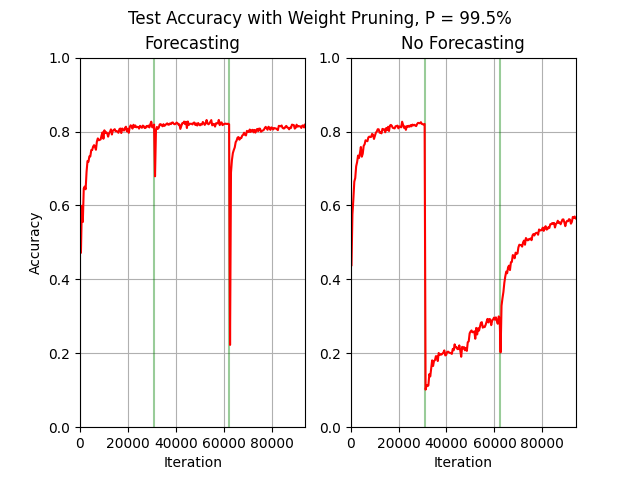
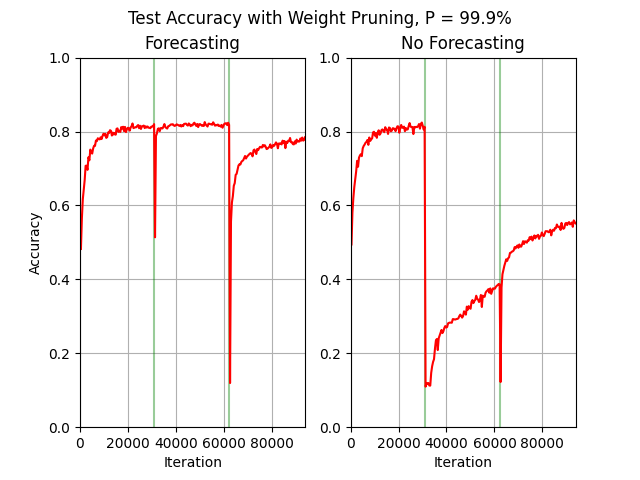
9775

diff --git a/Resnet18_F_Pruning.py b/Resnet18_F_Pruning.py
@@ -180,7 +180,7 @@ for i in range (3):
             print("Pruning...", k+1)
             acceleration = I_model(torch.transpose(weight_holder[4*k:4*k+4, :], 0, 1)*1000)/1000
             accelerate_dict = vec_to_dict(acceleration, mask)
-            (mask, num_zeroed) = prune(accelerate_dict, k+1, .95, num_zeroed, mask)
+            (mask, num_zeroed) = prune(accelerate_dict, k+1, .9775, num_zeroed, mask)
             temp_state_dict = simple_model.state_dict()
             mask_as_list = []
             for item in mask:

diff --git a/Resnet18_NF_Pruning.py b/Resnet18_NF_Pruning.py
@@ -163,7 +163,7 @@ for i in range (3):
             current_convs = {}
             for item in mask:
                 current_convs[item] = current[item]
-            (mask, num_zeroed) = prune(current_convs, k+1, .95, num_zeroed, mask)
+            (mask, num_zeroed) = prune(current_convs, k+1, .9775, num_zeroed, mask)
             temp_state_dict = simple_model.state_dict()
             mask_as_list = []
             for item in mask:

diff --git a/Graphing.py b/Graphing.py
@@ -7,7 +7,7 @@ training_iterations = torch.load("../Allen_UROP/data/resnet18_training_iteration
 import matplotlib.pyplot as plt
 
 fig , (ax1, ax2) = plt.subplots(1, 2)
-fig.suptitle("Test Accuracy with Weight Pruning, P = 99.5%")
+fig.suptitle("Test Accuracy with Weight Pruning, P = 99.9%")
 vert = [80*391, 160*391]
 for item in vert:
   ax1.plot([item-391, item-391], [-1, 1], "g-", alpha = .4)
